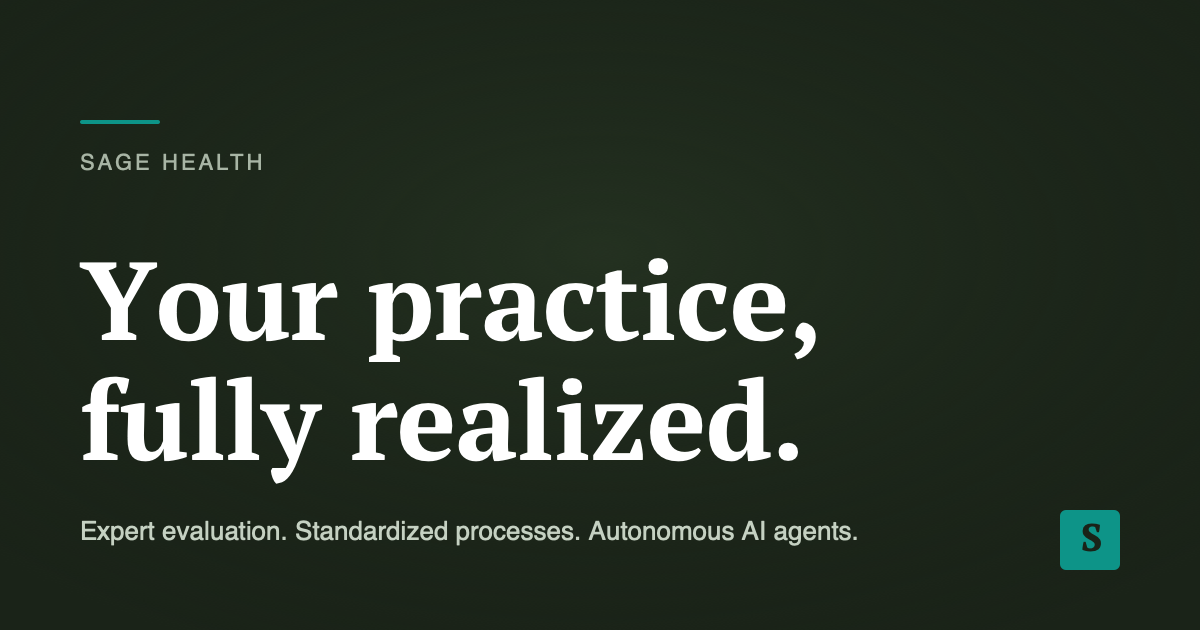
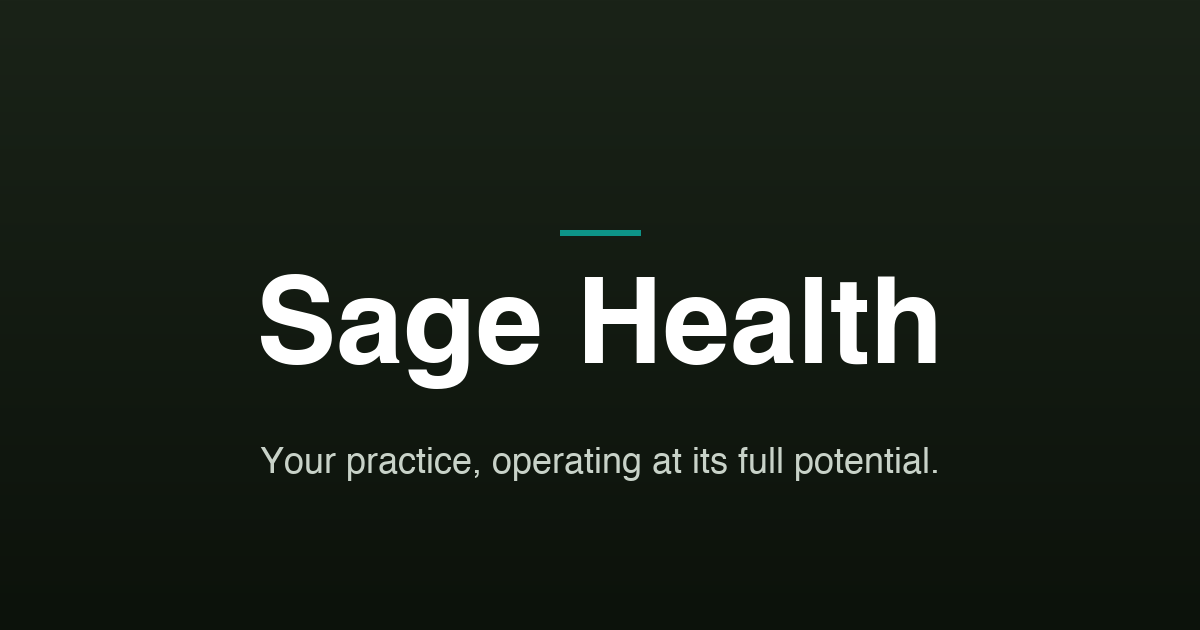
fix(seo): switch OG tags to Vercel domain + regenerate og-image.png
DNS for sagehealth.partners isn't pointed at Vercel yet, so unfurlers
(Slack, LinkedIn, iMessage) couldn't fetch the OG image. Point all
og:url, og:image, and twitter:image URLs across all 25 pages to the
working Vercel preview domain until DNS is live.

Also regenerate images/og-image.png as a proper 1200x630 PNG using
Pillow (scripts/generate_og.py) — the previous file (sips-converted
from SVG) was 553KB RGBA and may have been malformed. New file is
22KB clean RGB with the Sage Health title, tagline, and teal accent.

diff --git a/about.html b/about.html
@@ -8,15 +8,15 @@
 <meta property="og:title" content="About — Sage Health">
 <meta property="og:description" content="Expert evaluation. Standardized processes. Autonomous AI agents. Purpose-built for independent practices.">
 <meta property="og:type" content="website">
-<meta property="og:url" content="https://sagehealth.partners/about.html">
-<meta property="og:image" content="https://sagehealth.partners/images/og-image.png">
+<meta property="og:url" content="https://website-one-alpha-99.vercel.app/about.html">
+<meta property="og:image" content="https://website-one-alpha-99.vercel.app/images/og-image.png">
 <meta property="og:image:width" content="1200">
 <meta property="og:image:height" content="630">
 <meta property="og:site_name" content="Sage Health">
 <meta name="twitter:card" content="summary_large_image">
 <meta name="twitter:title" content="About — Sage Health">
 <meta name="twitter:description" content="Expert evaluation. Standardized processes. Autonomous AI agents. Purpose-built for independent practices.">
-<meta name="twitter:image" content="https://sagehealth.partners/images/og-image.png">
+<meta name="twitter:image" content="https://website-one-alpha-99.vercel.app/images/og-image.png">
 <link rel="icon" type="image/svg+xml" href="favicon.svg" sizes="any">
 <link rel="icon" type="image/png" sizes="32x32" href="favicon-32.png">
 <link rel="icon" type="image/png" sizes="16x16" href="favicon-16.png">

diff --git a/compliance/index.html b/compliance/index.html
@@ -8,15 +8,15 @@
 <meta property="og:title" content="HIPAA Compliance — Sage Health">
 <meta property="og:description" content="Expert evaluation. Standardized processes. Autonomous AI agents. Purpose-built for independent practices.">
 <meta property="og:type" content="website">
-<meta property="og:url" content="https://sagehealth.partners/compliance/">
-<meta property="og:image" content="https://sagehealth.partners/images/og-image.png">
+<meta property="og:url" content="https://website-one-alpha-99.vercel.app/compliance/">
+<meta property="og:image" content="https://website-one-alpha-99.vercel.app/images/og-image.png">
 <meta property="og:image:width" content="1200">
 <meta property="og:image:height" content="630">
 <meta property="og:site_name" content="Sage Health">
 <meta name="twitter:card" content="summary_large_image">
 <meta name="twitter:title" content="HIPAA Compliance — Sage Health">
 <meta name="twitter:description" content="Expert evaluation. Standardized processes. Autonomous AI agents. Purpose-built for independent practices.">
-<meta name="twitter:image" content="https://sagehealth.partners/images/og-image.png">
+<meta name="twitter:image" content="https://website-one-alpha-99.vercel.app/images/og-image.png">
 <link rel="icon" type="image/svg+xml" href="../favicon.svg" sizes="any">
 <link rel="icon" type="image/png" sizes="32x32" href="../favicon-32.png">
 <link rel="icon" type="image/png" sizes="16x16" href="../favicon-16.png">

diff --git a/contact.html b/contact.html
@@ -8,15 +8,15 @@
 <meta property="og:title" content="Contact — Sage Health">
 <meta property="og:description" content="Expert evaluation. Standardized processes. Autonomous AI agents. Purpose-built for independent practices.">
 <meta property="og:type" content="website">
-<meta property="og:url" content="https://sagehealth.partners/contact.html">
-<meta property="og:image" content="https://sagehealth.partners/images/og-image.png">
+<meta property="og:url" content="https://website-one-alpha-99.vercel.app/contact.html">
+<meta property="og:image" content="https://website-one-alpha-99.vercel.app/images/og-image.png">
 <meta property="og:image:width" content="1200">
 <meta property="og:image:height" content="630">
 <meta property="og:site_name" content="Sage Health">
 <meta name="twitter:card" content="summary_large_image">
 <meta name="twitter:title" content="Contact — Sage Health">
 <meta name="twitter:description" content="Expert evaluation. Standardized processes. Autonomous AI agents. Purpose-built for independent practices.">
-<meta name="twitter:image" content="https://sagehealth.partners/images/og-image.png">
+<meta name="twitter:image" content="https://website-one-alpha-99.vercel.app/images/og-image.png">
 <link rel="icon" type="image/svg+xml" href="favicon.svg" sizes="any">
 <link rel="icon" type="image/png" sizes="32x32" href="favicon-32.png">
 <link rel="icon" type="image/png" sizes="16x16" href="favicon-16.png">

diff --git a/index.html b/index.html
@@ -8,15 +8,15 @@
 <meta property="og:title" content="Sage Health">
 <meta property="og:description" content="Expert evaluation. Standardized processes. Autonomous AI agents. Purpose-built for independent practices.">
 <meta property="og:type" content="website">
-<meta property="og:url" content="https://sagehealth.partners/">
-<meta property="og:image" content="https://sagehealth.partners/images/og-image.png">
+<meta property="og:url" content="https://website-one-alpha-99.vercel.app/">
+<meta property="og:image" content="https://website-one-alpha-99.vercel.app/images/og-image.png">
 <meta property="og:image:width" content="1200">
 <meta property="og:image:height" content="630">
 <meta property="og:site_name" content="Sage Health">
 <meta name="twitter:card" content="summary_large_image">
 <meta name="twitter:title" content="Sage Health">
 <meta name="twitter:description" content="Expert evaluation. Standardized processes. Autonomous AI agents. Purpose-built for independent practices.">
-<meta name="twitter:image" content="https://sagehealth.partners/images/og-image.png">
+<meta name="twitter:image" content="https://website-one-alpha-99.vercel.app/images/og-image.png">
 <link rel="icon" type="image/svg+xml" href="favicon.svg" sizes="any">
 <link rel="icon" type="image/png" sizes="32x32" href="favicon-32.png">
 <link rel="icon" type="image/png" sizes="16x16" href="favicon-16.png">

diff --git a/insights/ai-agents-independent-practice-guide.html b/insights/ai-agents-independent-practice-guide.html
@@ -8,15 +8,15 @@
 <meta property="og:title" content="AI Agents for Independent Practice — Sage Health">
 <meta property="og:description" content="Expert evaluation. Standardized processes. Autonomous AI agents. Purpose-built for independent practices.">
 <meta property="og:type" content="website">
-<meta property="og:url" content="https://sagehealth.partners/insights/ai-agents-independent-practice-guide.html">
-<meta property="og:image" content="https://sagehealth.partners/images/og-image.png">
+<meta property="og:url" content="https://website-one-alpha-99.vercel.app/insights/ai-agents-independent-practice-guide.html">
+<meta property="og:image" content="https://website-one-alpha-99.vercel.app/images/og-image.png">
 <meta property="og:image:width" content="1200">
 <meta property="og:image:height" content="630">
 <meta property="og:site_name" content="Sage Health">
 <meta name="twitter:card" content="summary_large_image">
 <meta name="twitter:title" content="AI Agents for Independent Practice — Sage Health">
 <meta name="twitter:description" content="Expert evaluation. Standardized processes. Autonomous AI agents. Purpose-built for independent practices.">
-<meta name="twitter:image" content="https://sagehealth.partners/images/og-image.png">
+<meta name="twitter:image" content="https://website-one-alpha-99.vercel.app/images/og-image.png">
 <link rel="icon" type="image/svg+xml" href="../favicon.svg" sizes="any">
 <link rel="icon" type="image/png" sizes="32x32" href="../favicon-32.png">
 <link rel="icon" type="image/png" sizes="16x16" href="../favicon-16.png">

diff --git a/insights/index.html b/insights/index.html
@@ -8,15 +8,15 @@
 <meta property="og:title" content="Insights — Sage Health">
 <meta property="og:description" content="Expert evaluation. Standardized processes. Autonomous AI agents. Purpose-built for independent practices.">
 <meta property="og:type" content="website">
-<meta property="og:url" content="https://sagehealth.partners/insights/">
-<meta property="og:image" content="https://sagehealth.partners/images/og-image.png">
+<meta property="og:url" content="https://website-one-alpha-99.vercel.app/insights/">
+<meta property="og:image" content="https://website-one-alpha-99.vercel.app/images/og-image.png">
 <meta property="og:image:width" content="1200">
 <meta property="og:image:height" content="630">
 <meta property="og:site_name" content="Sage Health">
 <meta name="twitter:card" content="summary_large_image">
 <meta name="twitter:title" content="Insights — Sage Health">
 <meta name="twitter:description" content="Expert evaluation. Standardized processes. Autonomous AI agents. Purpose-built for independent practices.">
-<meta name="twitter:image" content="https://sagehealth.partners/images/og-image.png">
+<meta name="twitter:image" content="https://website-one-alpha-99.vercel.app/images/og-image.png">
 <link rel="icon" type="image/svg+xml" href="../favicon.svg" sizes="any">
 <link rel="icon" type="image/png" sizes="32x32" href="../favicon-32.png">
 <link rel="icon" type="image/png" sizes="16x16" href="../favicon-16.png">

diff --git a/insights/reducing-no-shows-beyond-reminders.html b/insights/reducing-no-shows-beyond-reminders.html
@@ -8,15 +8,15 @@
 <meta property="og:title" content="Reducing No-Shows: Beyond Reminders — Sage Health">
 <meta property="og:description" content="Expert evaluation. Standardized processes. Autonomous AI agents. Purpose-built for independent practices.">
 <meta property="og:type" content="website">
-<meta property="og:url" content="https://sagehealth.partners/insights/reducing-no-shows-beyond-reminders.html">
-<meta property="og:image" content="https://sagehealth.partners/images/og-image.png">
+<meta property="og:url" content="https://website-one-alpha-99.vercel.app/insights/reducing-no-shows-beyond-reminders.html">
+<meta property="og:image" content="https://website-one-alpha-99.vercel.app/images/og-image.png">
 <meta property="og:image:width" content="1200">
 <meta property="og:image:height" content="630">
 <meta property="og:site_name" content="Sage Health">
 <meta name="twitter:card" content="summary_large_image">
 <meta name="twitter:title" content="Reducing No-Shows: Beyond Reminders — Sage Health">
 <meta name="twitter:description" content="Expert evaluation. Standardized processes. Autonomous AI agents. Purpose-built for independent practices.">
-<meta name="twitter:image" content="https://sagehealth.partners/images/og-image.png">
+<meta name="twitter:image" content="https://website-one-alpha-99.vercel.app/images/og-image.png">
 <link rel="icon" type="image/svg+xml" href="../favicon.svg" sizes="any">
 <link rel="icon" type="image/png" sizes="32x32" href="../favicon-32.png">
 <link rel="icon" type="image/png" sizes="16x16" href="../favicon-16.png">

diff --git a/insights/why-front-desk-is-your-biggest-revenue-lever.html b/insights/why-front-desk-is-your-biggest-revenue-lever.html
@@ -8,15 +8,15 @@
 <meta property="og:title" content="Why the Front Desk is Your Biggest Revenue Lever — Sage Health">
 <meta property="og:description" content="Expert evaluation. Standardized processes. Autonomous AI agents. Purpose-built for independent practices.">
 <meta property="og:type" content="website">
-<meta property="og:url" content="https://sagehealth.partners/insights/why-front-desk-is-your-biggest-revenue-lever.html">
-<meta property="og:image" content="https://sagehealth.partners/images/og-image.png">
+<meta property="og:url" content="https://website-one-alpha-99.vercel.app/insights/why-front-desk-is-your-biggest-revenue-lever.html">
+<meta property="og:image" content="https://website-one-alpha-99.vercel.app/images/og-image.png">
 <meta property="og:image:width" content="1200">
 <meta property="og:image:height" content="630">
 <meta property="og:site_name" content="Sage Health">
 <meta name="twitter:card" content="summary_large_image">
 <meta name="twitter:title" content="Why the Front Desk is Your Biggest Revenue Lever — Sage Health">
 <meta name="twitter:description" content="Expert evaluation. Standardized processes. Autonomous AI agents. Purpose-built for independent practices.">
-<meta name="twitter:image" content="https://sagehealth.partners/images/og-image.png">
+<meta name="twitter:image" content="https://website-one-alpha-99.vercel.app/images/og-image.png">
 <link rel="icon" type="image/svg+xml" href="../favicon.svg" sizes="any">
 <link rel="icon" type="image/png" sizes="32x32" href="../favicon-32.png">
 <link rel="icon" type="image/png" sizes="16x16" href="../favicon-16.png">

diff --git a/privacy.html b/privacy.html
@@ -8,15 +8,15 @@
 <meta property="og:title" content="Privacy Policy — Sage Health">
 <meta property="og:description" content="Expert evaluation. Standardized processes. Autonomous AI agents. Purpose-built for independent practices.">
 <meta property="og:type" content="website">
-<meta property="og:url" content="https://sagehealth.partners/privacy.html">
-<meta property="og:image" content="https://sagehealth.partners/images/og-image.png">
+<meta property="og:url" content="https://website-one-alpha-99.vercel.app/privacy.html">
+<meta property="og:image" content="https://website-one-alpha-99.vercel.app/images/og-image.png">
 <meta property="og:image:width" content="1200">
 <meta property="og:image:height" content="630">
 <meta property="og:site_name" content="Sage Health">
 <meta name="twitter:card" content="summary_large_image">
 <meta name="twitter:title" content="Privacy Policy — Sage Health">
 <meta name="twitter:description" content="Expert evaluation. Standardized processes. Autonomous AI agents. Purpose-built for independent practices.">
-<meta name="twitter:image" content="https://sagehealth.partners/images/og-image.png">
+<meta name="twitter:image" content="https://website-one-alpha-99.vercel.app/images/og-image.png">
 <link rel="icon" type="image/svg+xml" href="favicon.svg" sizes="any">
 <link rel="icon" type="image/png" sizes="32x32" href="favicon-32.png">
 <link rel="icon" type="image/png" sizes="16x16" href="favicon-16.png">

diff --git a/solutions/advisory/evaluation-framework.html b/solutions/advisory/evaluation-framework.html
@@ -8,15 +8,15 @@
 <meta property="og:title" content="Evaluation Framework — Sage Health">
 <meta property="og:description" content="Expert evaluation. Standardized processes. Autonomous AI agents. Purpose-built for independent practices.">
 <meta property="og:type" content="website">
-<meta property="og:url" content="https://sagehealth.partners/solutions/advisory/evaluation-framework.html">
-<meta property="og:image" content="https://sagehealth.partners/images/og-image.png">
+<meta property="og:url" content="https://website-one-alpha-99.vercel.app/solutions/advisory/evaluation-framework.html">
+<meta property="og:image" content="https://website-one-alpha-99.vercel.app/images/og-image.png">
 <meta property="og:image:width" content="1200">
 <meta property="og:image:height" content="630">
 <meta property="og:site_name" content="Sage Health">
 <meta name="twitter:card" content="summary_large_image">
 <meta name="twitter:title" content="Evaluation Framework — Sage Health">
 <meta name="twitter:description" content="Expert evaluation. Standardized processes. Autonomous AI agents. Purpose-built for independent practices.">
-<meta name="twitter:image" content="https://sagehealth.partners/images/og-image.png">
+<meta name="twitter:image" content="https://website-one-alpha-99.vercel.app/images/og-image.png">
 <link rel="icon" type="image/svg+xml" href="../../favicon.svg" sizes="any">
 <link rel="icon" type="image/png" sizes="32x32" href="../../favicon-32.png">
 <link rel="icon" type="image/png" sizes="16x16" href="../../favicon-16.png">

diff --git a/solutions/advisory/index.html b/solutions/advisory/index.html
@@ -8,15 +8,15 @@
 <meta property="og:title" content="Advisory Services — Sage Health">
 <meta property="og:description" content="Expert evaluation. Standardized processes. Autonomous AI agents. Purpose-built for independent practices.">
 <meta property="og:type" content="website">
-<meta property="og:url" content="https://sagehealth.partners/solutions/advisory/">
-<meta property="og:image" content="https://sagehealth.partners/images/og-image.png">
+<meta property="og:url" content="https://website-one-alpha-99.vercel.app/solutions/advisory/">
+<meta property="og:image" content="https://website-one-alpha-99.vercel.app/images/og-image.png">
 <meta property="og:image:width" content="1200">
 <meta property="og:image:height" content="630">
 <meta property="og:site_name" content="Sage Health">
 <meta name="twitter:card" content="summary_large_image">
 <meta name="twitter:title" content="Advisory Services — Sage Health">
 <meta name="twitter:description" content="Expert evaluation. Standardized processes. Autonomous AI agents. Purpose-built for independent practices.">
-<meta name="twitter:image" content="https://sagehealth.partners/images/og-image.png">
+<meta name="twitter:image" content="https://website-one-alpha-99.vercel.app/images/og-image.png">
 <link rel="icon" type="image/svg+xml" href="../../favicon.svg" sizes="any">
 <link rel="icon" type="image/png" sizes="32x32" href="../../favicon-32.png">
 <link rel="icon" type="image/png" sizes="16x16" href="../../favicon-16.png">

diff --git a/solutions/advisory/operational-sops.html b/solutions/advisory/operational-sops.html
@@ -8,15 +8,15 @@
 <meta property="og:title" content="Operational SOPs — Sage Health">
 <meta property="og:description" content="Expert evaluation. Standardized processes. Autonomous AI agents. Purpose-built for independent practices.">
 <meta property="og:type" content="website">
-<meta property="og:url" content="https://sagehealth.partners/solutions/advisory/operational-sops.html">
-<meta property="og:image" content="https://sagehealth.partners/images/og-image.png">
+<meta property="og:url" content="https://website-one-alpha-99.vercel.app/solutions/advisory/operational-sops.html">
+<meta property="og:image" content="https://website-one-alpha-99.vercel.app/images/og-image.png">
 <meta property="og:image:width" content="1200">
 <meta property="og:image:height" content="630">
 <meta property="og:site_name" content="Sage Health">
 <meta name="twitter:card" content="summary_large_image">
 <meta name="twitter:title" content="Operational SOPs — Sage Health">
 <meta name="twitter:description" content="Expert evaluation. Standardized processes. Autonomous AI agents. Purpose-built for independent practices.">
-<meta name="twitter:image" content="https://sagehealth.partners/images/og-image.png">
+<meta name="twitter:image" content="https://website-one-alpha-99.vercel.app/images/og-image.png">
 <link rel="icon" type="image/svg+xml" href="../../favicon.svg" sizes="any">
 <link rel="icon" type="image/png" sizes="32x32" href="../../favicon-32.png">
 <link rel="icon" type="image/png" sizes="16x16" href="../../favicon-16.png">